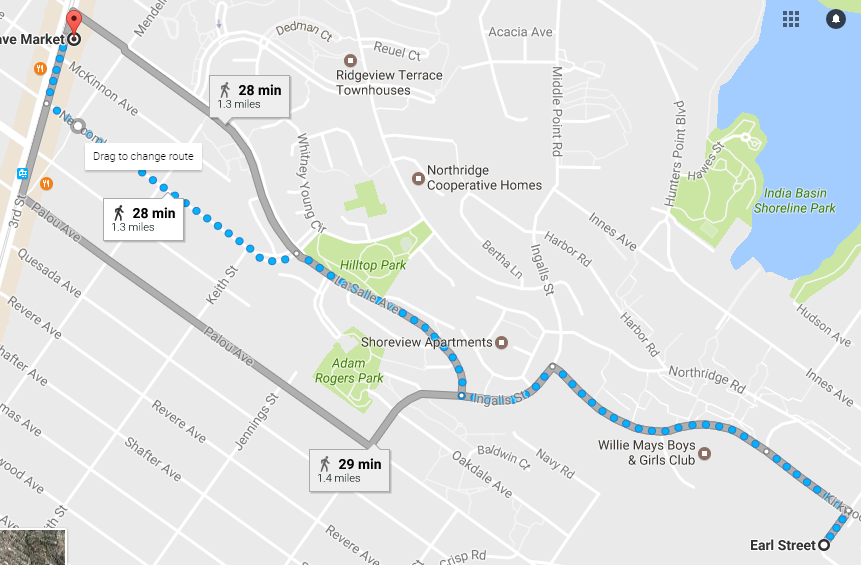
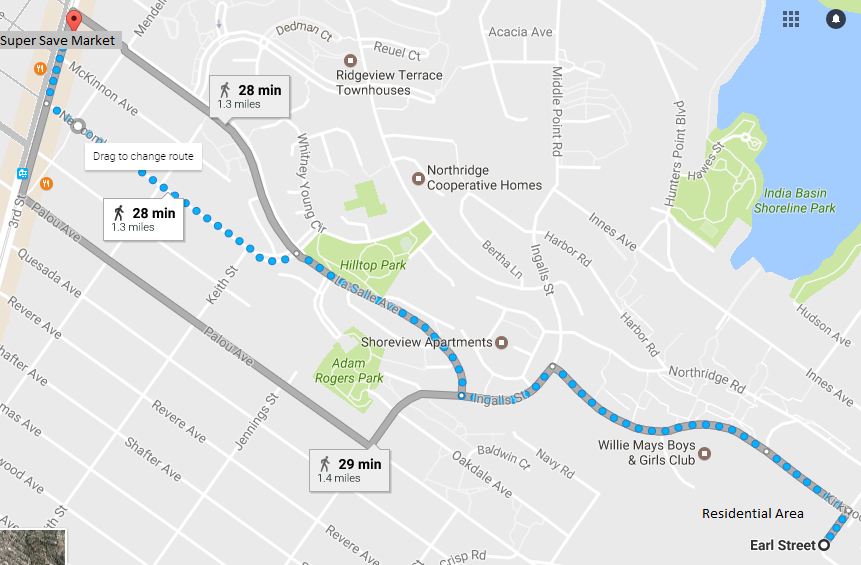
added better map

Changed region(s): [[0.0, 0.0, 0.151, 0.3009], [0.8153, 0.9027, 0.9361, 0.9327]]

diff --git a/index.html b/index.html
@@ -50,7 +50,7 @@
 <p> For the field data collection portion of my study, I drove around the Bayview Hunters Point to assess  how accessible fresh produce and healthy food were to the residents of the area.  I only found one store in the area - a liquor store that sold alcohol, soda, and other foods that do not qualify as groceries. The nearest grocery store that I located, Super Save Market,  was 1.3 miles from the main residential area. </p>
 
 <div class= "image" id="map">
-    <img src="http://i66.tinypic.com/jrp9q1.png"/>
+   <img src="http://i65.tinypic.com/2chqth.png"/>
 </div>
     <p>Although small, the Super Save Market has  all the products usually found in a grocery store: fruit, dairy, bread etc. Here are the data I collected that compares the prices of Super Save to Safeway:</p>
 </div>

diff --git a/styles.css b/styles.css
@@ -84,7 +84,6 @@ h2{
     margin-top: 20px;
     margin-bottom: 20px;
     font-size: 17px;
-
 }
 
 p{
@@ -140,6 +139,7 @@ p{
     display: inline-block;
     margin-top: -100px;
     width:500px;
+    padding-left: 40px;
 }
 
 .graph img{
